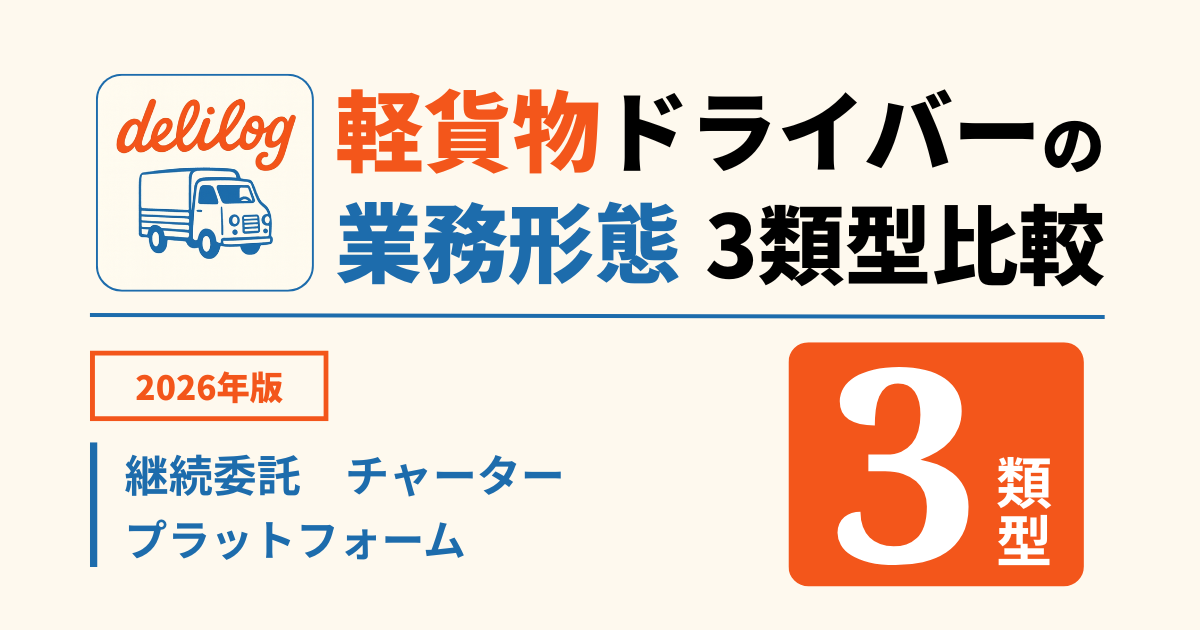
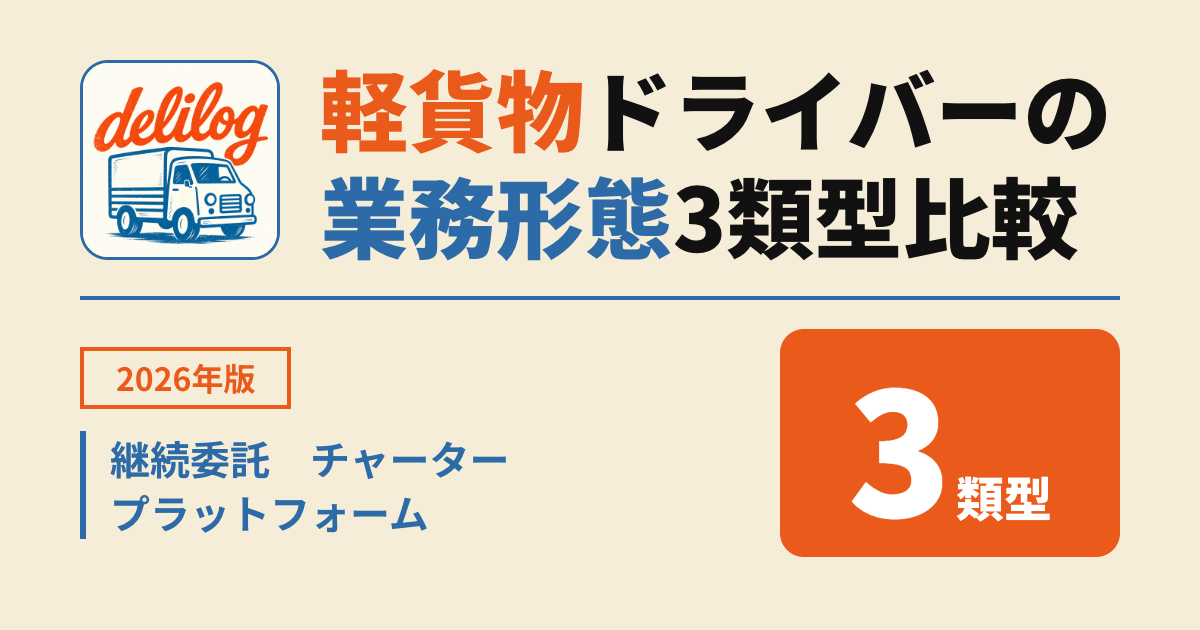
feat: T7 全15記事の OG 画像を新しいテンプレートで作り直す

Changed region(s): [[0.0617, 0.0905, 0.9558, 0.9349], [0.0617, 0.5429, 0.4625, 0.9048]]

diff --git a/docs/plans/run-blog-schedule.md b/docs/plans/run-blog-schedule.md
@@ -40,7 +40,7 @@ WORKTREE: /Users/narajunichi/delilog-website/.claude/worktrees/feat-blog-schedul
 - [x] T4: 予定表 — `docs/BLOG_SCHEDULE.md`（公開予定の表・次の候補の並び・ルール）。候補は BLOG_BACKLOG と memory の作り直しリストから
 - [x] T5: `/blog-week` コマンドと `/write-blog` の予約モード — 週の流れ（候補選び → まとめて承認 → 1本ずつ作る → PR とラベル → 「公開して」で approved）。`/write-blog` に `publish-on` と承認済み構成の受け取り、作り直しのときの扱いを足す。CLAUDE.md のパイプライン節も合わせる
 - [x] T6: OG 画像テンプレートの崩れを直す — 数字は太いゴシックで固定サイズの箱・単位は横書きで下にそろえる・タイトルと副題は枠に合わせて自動で文字サイズを決める。`blog:figures` が崩れ（はみ出し・タイトルの幅不足）を NG にする。判定は純関数＋テスト
-- [ ] T7: 全15本の OG 画像を作り直す — 古い11本は今の og.png の文言から og.json を作る。15枚を目で確かめ、前後比較の一覧画像を作る
+- [x] T7: 全15本の OG 画像を作り直す — 古い11本は今の og.png の文言から og.json を作る。15枚を目で確かめ、前後比較の一覧画像を作る
 
 ## リスクのあるタスク
 
@@ -55,7 +55,8 @@ WORKTREE: /Users/narajunichi/delilog-website/.claude/worktrees/feat-blog-schedul
 | T3 | b20fc5c | 毎日 21:00 UTC＋手動（dry_run 既定オン）。checkout は persist-credentials: false。レビューは T2 と同時 |
 | T4 | a2a197b | 候補20本（作り直し11・新規9）。8/14 に最優先とした請求書テンプレが未着手だったので新規の先頭に。経費記事は 1.4.14 公開後 |
 | T5 | 33b24b3 | /blog-week 新設・/write-blog に予約モード・CLAUDE.md。予定表の更新は週の最初の1本の PR だけ（同じ行の書き換えの衝突を避ける）。最初の公開日を「明日」→「明後日」に（オーナーの確認の1日を空ける・テスト更新） |
-| T6 | (このコミット) | 数字は Noto Sans JP 900（Georgia 明朝をやめた）・箱は 340×228 固定・単位は横書きで数字の右のベースライン。タイトル（64〜92px）と副題（30〜40px）は fit() で枠に合わせる。行の切れ判定は overflow-x: clip（hidden だと縦方向の誤検知で全部 NG になった）。og.json の形は ogSpec.mjs で検査。テスト43件 |
+| T6 | d7d1b68 | 数字は Noto Sans JP 900（Georgia 明朝をやめた）・箱は 340×228 固定・単位は横書きで数字の右のベースライン。タイトル（64〜92px）と副題（30〜40px）は fit() で枠に合わせる。行の切れ判定は overflow-x: clip（hidden だと縦方向の誤検知で全部 NG になった）。og.json の形は ogSpec.mjs で検査。テスト43件 |
+| T7 | (このコミット) | 古い11本の og.json を今の og.png の文言から作成（2つ目のバッジ「国交省 告示対応」等はテンプレートが1つなので外した。jittai-toukei の「n=772」は4文字を超えるので「772件」）。15枚とも blog:figures OK、目視で確認 |
 
 ## 失敗カウンタ
 
